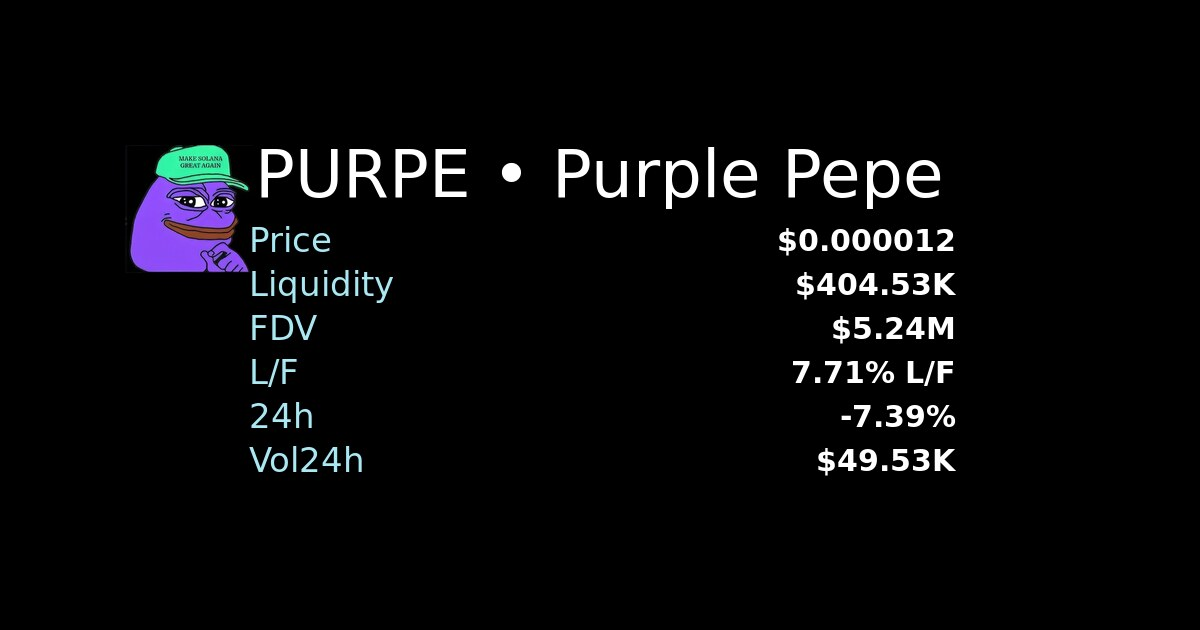
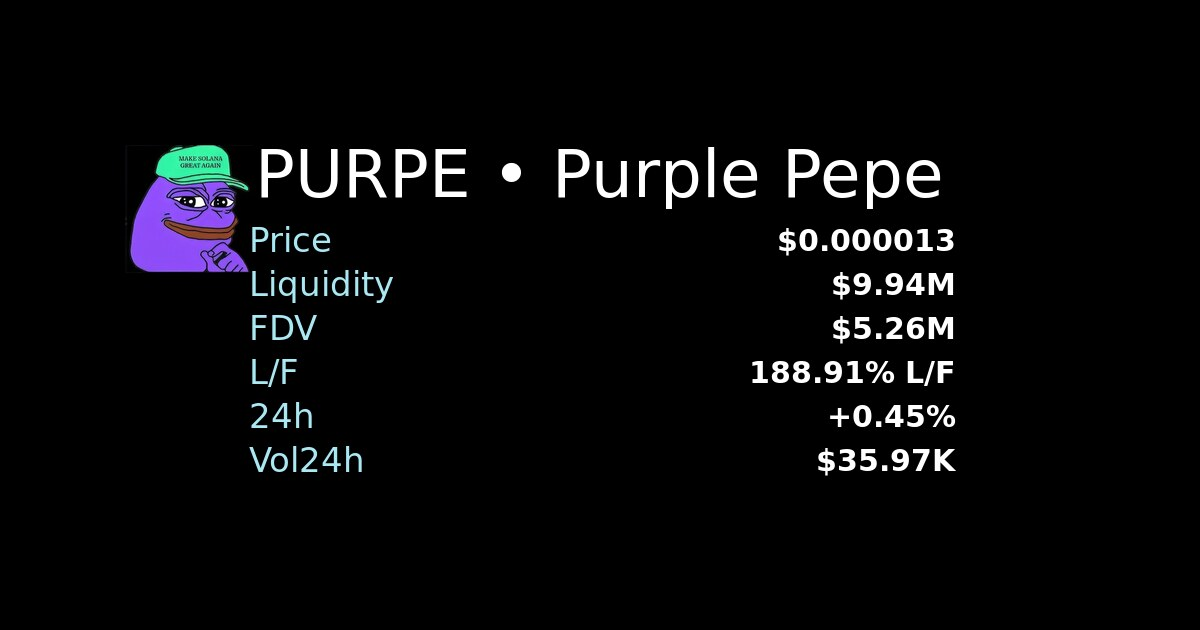
chore: update sitemap & token pages

diff --git a/token/HBoNJ5v8g71s2boRivrHnfSB5MVPLDHHyVjruPfhGkvL/index.html b/token/HBoNJ5v8g71s2boRivrHnfSB5MVPLDHHyVjruPfhGkvL/index.html
@@ -4,14 +4,14 @@
     <meta charset="utf-8" />
     <meta name="viewport" content="width=device-width,initial-scale=1" />
     <title>PURPE on Solana</title>
-    <meta name="description" content="Purple Pepe • Price: $0.000012 • Liquidity: $404.53K" />
+    <meta name="description" content="Purple Pepe • Price: $0.000013 • Liquidity: $9.94M" />
     <meta name="author" content="builders-toronto" />
     <meta name="keywords" content="solana, memecoin, bonk, wif, dog, inu, pepe, cat, meme, ponk, samo, purry, purr, kitty, meow, woof, frog, snek, toad, bob, dino, monke, monkey, ape, corgi, floki, elon" />
 
     <!-- OG -->
     <meta property="og:type" content="website" />
     <meta property="og:title" content="PURPE on Solana" />
-    <meta property="og:description" content="Purple Pepe • Price: $0.000012 • Liquidity: $404.53K" />
+    <meta property="og:description" content="Purple Pepe • Price: $0.000013 • Liquidity: $9.94M" />
     <meta property="og:url" content="https://fdv.lol/token/HBoNJ5v8g71s2boRivrHnfSB5MVPLDHHyVjruPfhGkvL" />
     <meta property="og:image" content="https://fdv.lol/token/HBoNJ5v8g71s2boRivrHnfSB5MVPLDHHyVjruPfhGkvL/og.jpg" />
     <meta property="og:image:width" content="1200" />
@@ -21,7 +21,7 @@
     <!-- Twitter -->
     <meta name="twitter:card" content="summary_large_image" />
     <meta name="twitter:title" content="PURPE on Solana" />
-    <meta name="twitter:description" content="Purple Pepe • Price: $0.000012 • Liquidity: $404.53K" />
+    <meta name="twitter:description" content="Purple Pepe • Price: $0.000013 • Liquidity: $9.94M" />
     <meta name="twitter:image" content="https://fdv.lol/token/HBoNJ5v8g71s2boRivrHnfSB5MVPLDHHyVjruPfhGkvL/og.jpg" />
 
     <link rel="icon" type="image/png" href="/src/assets/images/icons/fdv.lol.ico" />
@@ -37,7 +37,7 @@
       "@type": "WebSite",
       "name": "PURPE on Solana",
       "url": "https://fdv.lol/token/HBoNJ5v8g71s2boRivrHnfSB5MVPLDHHyVjruPfhGkvL",
-      "description": "Purple Pepe • Price: $0.000012 • Liquidity: $404.53K",
+      "description": "Purple Pepe • Price: $0.000013 • Liquidity: $9.94M",
       "keywords": [
         "solana",
         "memecoin",
